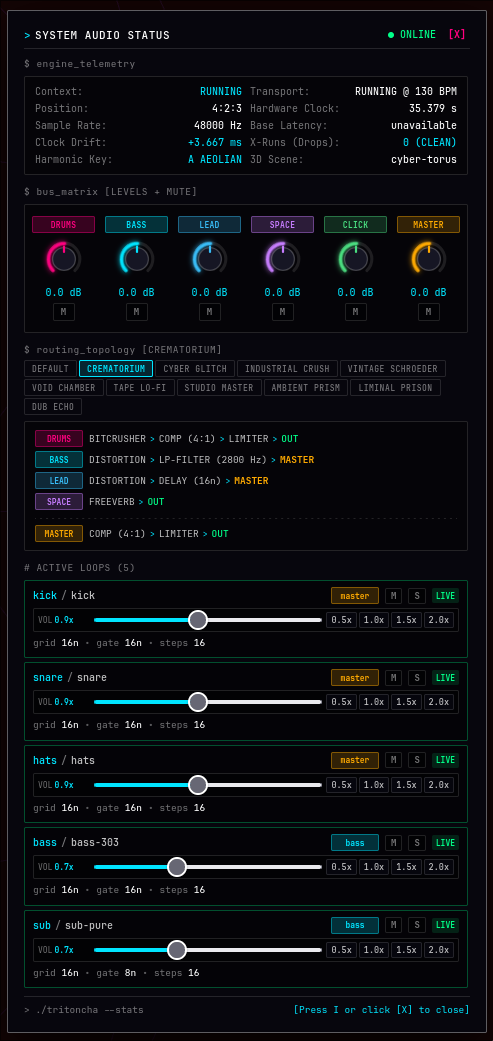
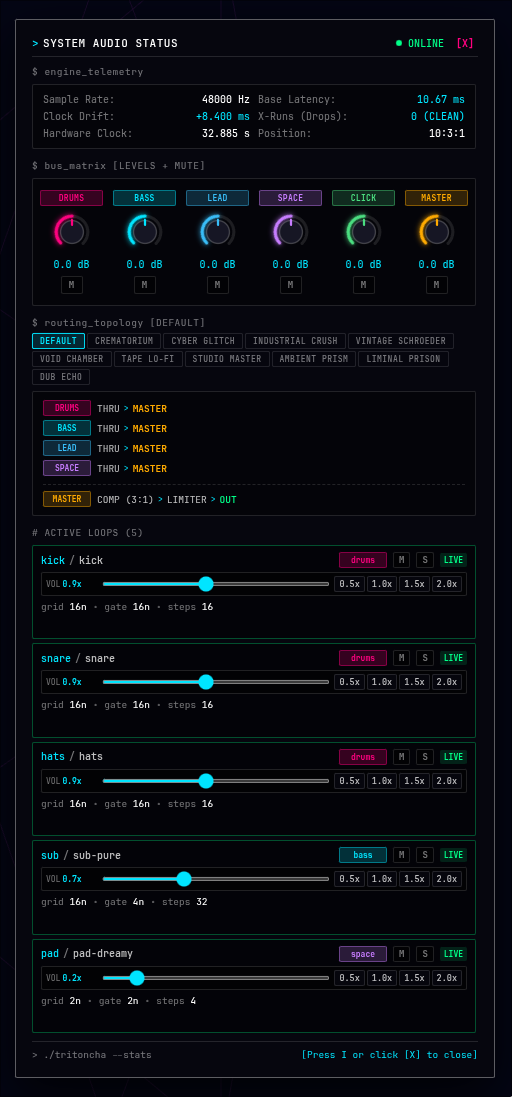
chore(release): bump version to 1.7.0 and update README

Changed region(s): [[0.0, 0.0, 0.9736, 0.9837]]

diff --git a/README.md b/README.md
@@ -19,6 +19,11 @@ Shape algorithmic music with ClojureScript, driven by a real-time Rust WebAssemb
 |                                                   ![Visual Synth Studio](assets/synth_studio.png)                                                   |
 | Tweak oscillators, filters, and envelopes with live sliders. Audition sounds in real time and export ClojureScript code straight into your session. |
 
+|                                            HUD Player Deck                                            |
+| :---------------------------------------------------------------------------------------------------: |
+|                              ![HUD Player Deck](assets/player_panel.png)                              |
+| Real-time playback engine toggle, preset track navigation, tempo slider, harmonic root + mode tuning. |
+
 |       System Audio Status + Mixer Matrix        |               Track Presets Library                |
 | :---------------------------------------------: | :------------------------------------------------: |
 | ![System Audio Status](assets/audio_status.png) | ![Track Presets Library](assets/track_presets.png) |
